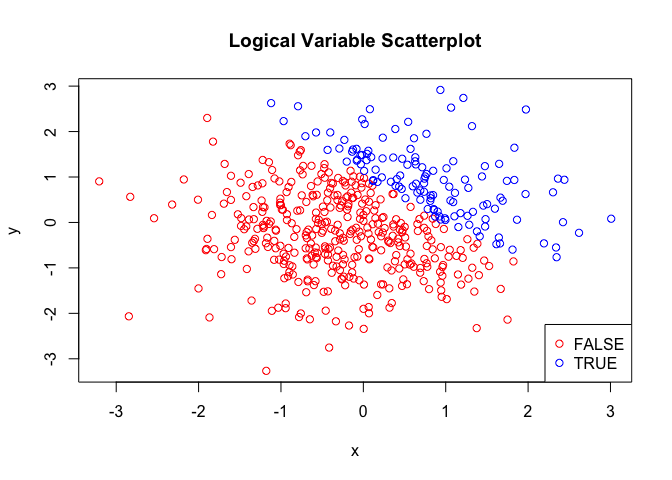
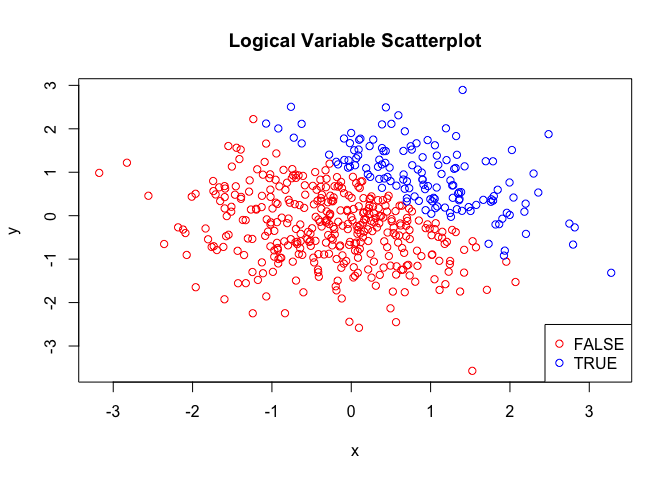
Minor update

diff --git a/p8105_hw1_dz2426.md b/p8105_hw1_dz2426.md
@@ -48,9 +48,9 @@ mean_char_vec = mean(pull(df_1, char_vec))
 mean_fac_vec = mean(pull(df_1, fac_vec))
 ```
 
-Comment 1: <br /> The mean of the random sample is -0.16. <br /> The
-mean of the logic vector is 0.38. <br /> The mean of the character
-vector is NA. <br /> The mean of the factor vector is NA. <br />
+Comment 1: <br /> The mean of the random sample is 0.01. <br /> The mean
+of the logic vector is 0.62. <br /> The mean of the character vector is
+NA. <br /> The mean of the factor vector is NA. <br />
 
 ``` r
 #Convert the logical, character, and factor vector to numeric variable
@@ -77,8 +77,8 @@ Here is the second code
 as.numeric(pull(df_1, log_vec)) * pull(df_1, random_samp)
 ```
 
-    ## [1] 0.0000000 0.1204666 0.0000000 0.0000000 1.4546108 0.9020222 0.0000000
-    ## [8] 0.0000000
+    ## [1] 0.5804234 0.0000000 0.0000000 0.7803462 0.4662752 0.3531446 0.0000000
+    ## [8] 0.3597381
 
 ``` r
 as.factor(pull(df_1, log_vec)) * pull(df_1, random_samp)
@@ -90,8 +90,8 @@ as.factor(pull(df_1, log_vec)) * pull(df_1, random_samp)
 as.numeric(as.factor(pull(df_1, log_vec))) * pull(df_1, random_samp)
 ```
 
-    ## [1] -0.5703418  0.2409332 -0.4430649 -0.4029780  2.9092217  1.8040443
-    ## [7] -2.1758243 -0.2017707
+    ## [1]  1.1608467 -1.9550914 -0.2991970  1.5606923  0.9325505  0.7062892
+    ## [7] -0.1879899  0.7194761
 
 # Problem 2
 
@@ -119,9 +119,9 @@ prop_case = mean(pull(df_2, log_vec_2))
 ```
 
 Description of data frame: <br /> The size of the data set is 500 and 5.
-<br /> The mean, median and standard deviation of x are -0.04, -0.08 and
-0.97, respectively. <br /> The proportion of cases for which x+y\>1 is
-0.25.
+<br /> The mean, median and standard deviation of x are 0.06, 0.07 and
+1.02, respectively. <br /> The proportion of cases for which x+y\>1 is
+0.27.
 
 ## Section 2
 
@@ -138,6 +138,12 @@ legend("bottomright", pch = 1, col = c("red","blue"),
 ```
 
 ![](p8105_hw1_dz2426_files/figure-gfm/yx_Logical_scatterplot-1.png)<!-- -->
+
+``` r
+ggsave("plot_one.png")
+```
+
+    ## Saving 7 x 5 in image
 
 ``` r
 plot_two = with(df_2, plot(x, y, xlab = "x", ylab = "y", 
